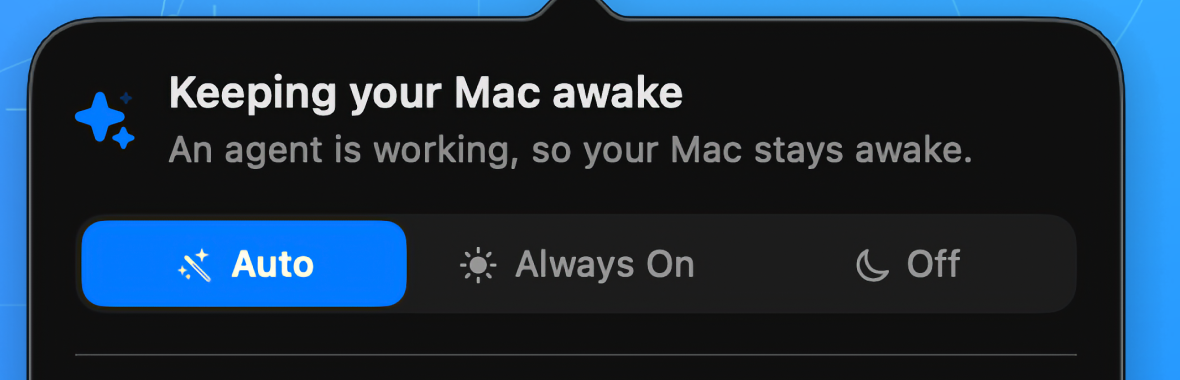
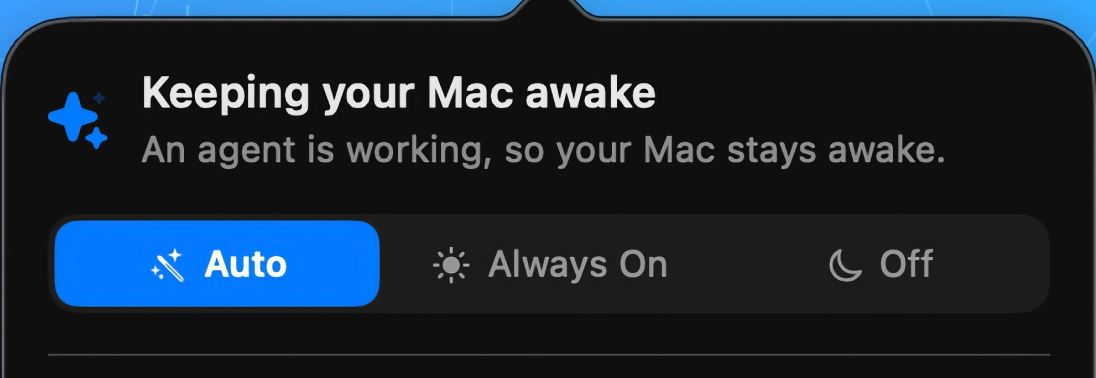
Trim the cover's blue out of the panel shot and re-aim the arrows

diff --git a/ru/index.html b/ru/index.html
@@ -39,11 +39,11 @@
 
 <h2 class="modes-head">Три режима, между ними один клик</h2>
 <figure class="modes">
-    <img src="../img/modes.png" alt="Три режима, между ними один клик" width="1180" height="380">
-    <svg class="pointers" viewBox="0 0 1180 150" aria-hidden="true">
-        <path d="M180 120 C 180 60, 210 40, 236 14"/>
-        <path d="M590 120 C 590 60, 590 40, 590 14"/>
-        <path d="M1000 120 C 1000 60, 970 40, 944 14"/>
+    <img src="../img/modes.png" alt="Три режима, между ними один клик" width="1096" height="378">
+    <svg class="pointers" viewBox="0 0 1096 150" aria-hidden="true">
+        <path d="M208 120 C 208 62, 208 38, 208 12"/>
+        <path d="M548 120 C 548 62, 548 38, 548 12"/>
+        <path d="M888 120 C 888 62, 888 38, 888 12"/>
     </svg>
     <figcaption>
         <span class="hand">Auto</span><span>Держит, только пока агент работает.</span>

diff --git a/de/index.html b/de/index.html
@@ -39,11 +39,11 @@
 
 <h2 class="modes-head">Drei Modi, einen Klick voneinander entfernt</h2>
 <figure class="modes">
-    <img src="../img/modes.png" alt="Drei Modi, einen Klick voneinander entfernt" width="1180" height="380">
-    <svg class="pointers" viewBox="0 0 1180 150" aria-hidden="true">
-        <path d="M180 120 C 180 60, 210 40, 236 14"/>
-        <path d="M590 120 C 590 60, 590 40, 590 14"/>
-        <path d="M1000 120 C 1000 60, 970 40, 944 14"/>
+    <img src="../img/modes.png" alt="Drei Modi, einen Klick voneinander entfernt" width="1096" height="378">
+    <svg class="pointers" viewBox="0 0 1096 150" aria-hidden="true">
+        <path d="M208 120 C 208 62, 208 38, 208 12"/>
+        <path d="M548 120 C 548 62, 548 38, 548 12"/>
+        <path d="M888 120 C 888 62, 888 38, 888 12"/>
     </svg>
     <figcaption>
         <span class="hand">Auto</span><span>Hält nur, solange ein Agent arbeitet.</span>

diff --git a/fr/index.html b/fr/index.html
@@ -39,11 +39,11 @@
 
 <h2 class="modes-head">Trois modes, à un clic l'un de l'autre</h2>
 <figure class="modes">
-    <img src="../img/modes.png" alt="Trois modes, à un clic l'un de l'autre" width="1180" height="380">
-    <svg class="pointers" viewBox="0 0 1180 150" aria-hidden="true">
-        <path d="M180 120 C 180 60, 210 40, 236 14"/>
-        <path d="M590 120 C 590 60, 590 40, 590 14"/>
-        <path d="M1000 120 C 1000 60, 970 40, 944 14"/>
+    <img src="../img/modes.png" alt="Trois modes, à un clic l'un de l'autre" width="1096" height="378">
+    <svg class="pointers" viewBox="0 0 1096 150" aria-hidden="true">
+        <path d="M208 120 C 208 62, 208 38, 208 12"/>
+        <path d="M548 120 C 548 62, 548 38, 548 12"/>
+        <path d="M888 120 C 888 62, 888 38, 888 12"/>
     </svg>
     <figcaption>
         <span class="hand">Auto</span><span>Ne retient que pendant qu'un agent travaille.</span>

diff --git a/es/index.html b/es/index.html
@@ -39,11 +39,11 @@
 
 <h2 class="modes-head">Tres modos, a un clic de distancia</h2>
 <figure class="modes">
-    <img src="../img/modes.png" alt="Tres modos, a un clic de distancia" width="1180" height="380">
-    <svg class="pointers" viewBox="0 0 1180 150" aria-hidden="true">
-        <path d="M180 120 C 180 60, 210 40, 236 14"/>
-        <path d="M590 120 C 590 60, 590 40, 590 14"/>
-        <path d="M1000 120 C 1000 60, 970 40, 944 14"/>
+    <img src="../img/modes.png" alt="Tres modos, a un clic de distancia" width="1096" height="378">
+    <svg class="pointers" viewBox="0 0 1096 150" aria-hidden="true">
+        <path d="M208 120 C 208 62, 208 38, 208 12"/>
+        <path d="M548 120 C 548 62, 548 38, 548 12"/>
+        <path d="M888 120 C 888 62, 888 38, 888 12"/>
     </svg>
     <figcaption>
         <span class="hand">Auto</span><span>Solo mantiene despierto mientras un agente trabaja.</span>

diff --git a/it/index.html b/it/index.html
@@ -39,11 +39,11 @@
 
 <h2 class="modes-head">Tre modi, a un clic di distanza</h2>
 <figure class="modes">
-    <img src="../img/modes.png" alt="Tre modi, a un clic di distanza" width="1180" height="380">
-    <svg class="pointers" viewBox="0 0 1180 150" aria-hidden="true">
-        <path d="M180 120 C 180 60, 210 40, 236 14"/>
-        <path d="M590 120 C 590 60, 590 40, 590 14"/>
-        <path d="M1000 120 C 1000 60, 970 40, 944 14"/>
+    <img src="../img/modes.png" alt="Tre modi, a un clic di distanza" width="1096" height="378">
+    <svg class="pointers" viewBox="0 0 1096 150" aria-hidden="true">
+        <path d="M208 120 C 208 62, 208 38, 208 12"/>
+        <path d="M548 120 C 548 62, 548 38, 548 12"/>
+        <path d="M888 120 C 888 62, 888 38, 888 12"/>
     </svg>
     <figcaption>
         <span class="hand">Auto</span><span>Tiene sveglio solo mentre un agente lavora.</span>

diff --git a/en/index.html b/en/index.html
@@ -39,11 +39,11 @@
 
 <h2 class="modes-head">Three modes, one click apart</h2>
 <figure class="modes">
-    <img src="../img/modes.png" alt="Three modes, one click apart" width="1180" height="380">
-    <svg class="pointers" viewBox="0 0 1180 150" aria-hidden="true">
-        <path d="M180 120 C 180 60, 210 40, 236 14"/>
-        <path d="M590 120 C 590 60, 590 40, 590 14"/>
-        <path d="M1000 120 C 1000 60, 970 40, 944 14"/>
+    <img src="../img/modes.png" alt="Three modes, one click apart" width="1096" height="378">
+    <svg class="pointers" viewBox="0 0 1096 150" aria-hidden="true">
+        <path d="M208 120 C 208 62, 208 38, 208 12"/>
+        <path d="M548 120 C 548 62, 548 38, 548 12"/>
+        <path d="M888 120 C 888 62, 888 38, 888 12"/>
     </svg>
     <figcaption>
         <span class="hand">Auto</span><span>Holds only while an agent is working.</span>

diff --git a/build-site.py b/build-site.py
@@ -132,13 +132,16 @@ def landing(code):
         "",
         f'<h2 class="modes-head">{t["modes_head"]}</h2>',
         '<figure class="modes">',
-        f'    <img src="../img/modes.png" alt="{t["modes_head"]}" width="1180" height="380">',
-        '    <svg class="pointers" viewBox="0 0 1180 150" aria-hidden="true">',
+        f'    <img src="../img/modes.png" alt="{t["modes_head"]}" width="1096" height="378">',
+        '    <svg class="pointers" viewBox="0 0 1096 150" aria-hidden="true">',
         # One arrow per third, so they keep pointing at the right segment
         # whatever width the image is scaled to.
-        '        <path d="M180 120 C 180 60, 210 40, 236 14"/>',
-        '        <path d="M590 120 C 590 60, 590 40, 590 14"/>',
-        '        <path d="M1000 120 C 1000 60, 970 40, 944 14"/>',
+        # The picker's three segments sit at 0.19, 0.5 and 0.81 of the image
+        # width, measured off the file rather than guessed, so the arrows keep
+        # their aim at any scale.
+        '        <path d="M208 120 C 208 62, 208 38, 208 12"/>',
+        '        <path d="M548 120 C 548 62, 548 38, 548 12"/>',
+        '        <path d="M888 120 C 888 62, 888 38, 888 12"/>',
         "    </svg>",
         '    <figcaption>',
         f'        <span class="hand">Auto</span><span>{t["modes_auto"]}</span>',
